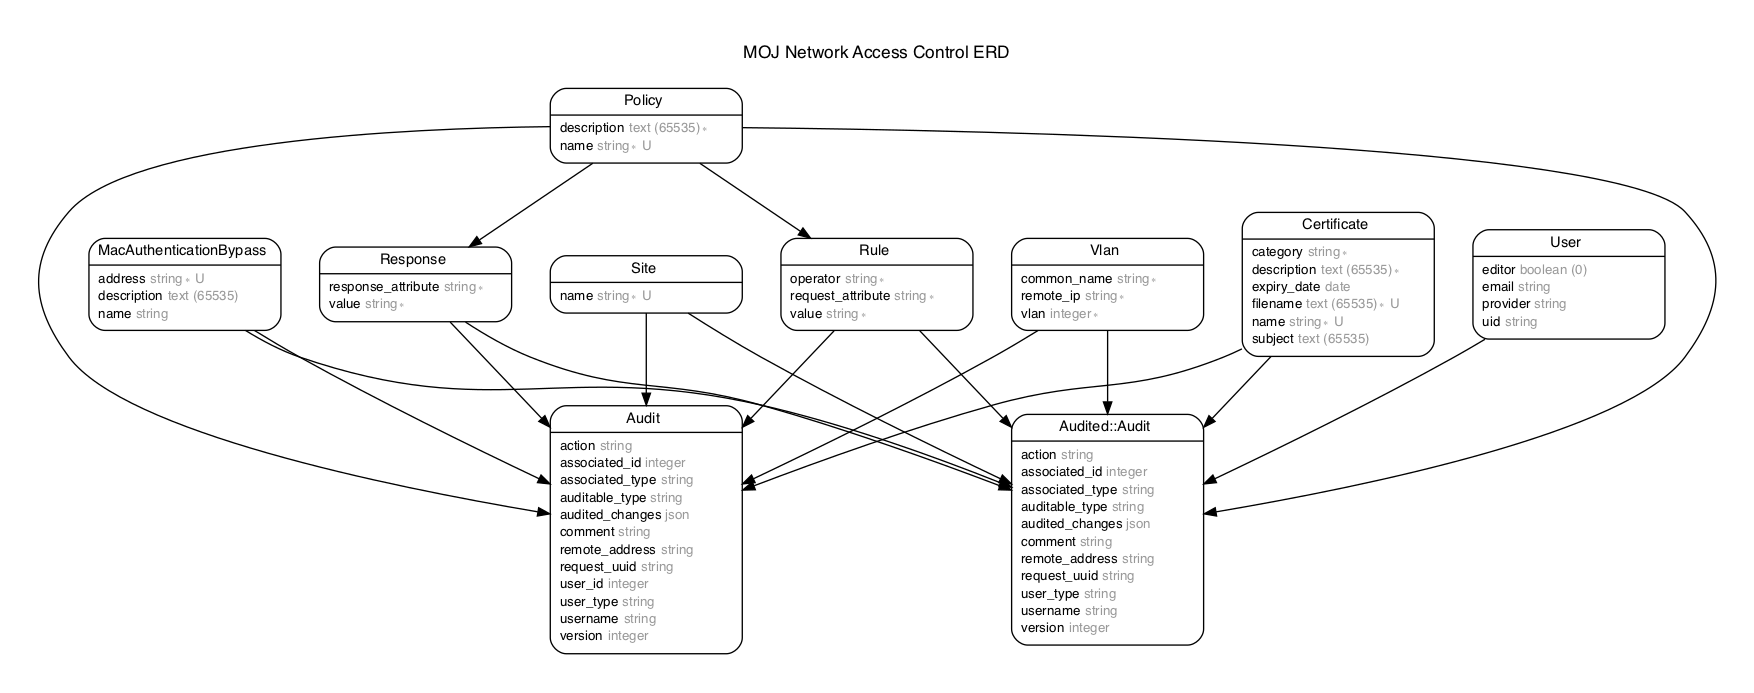
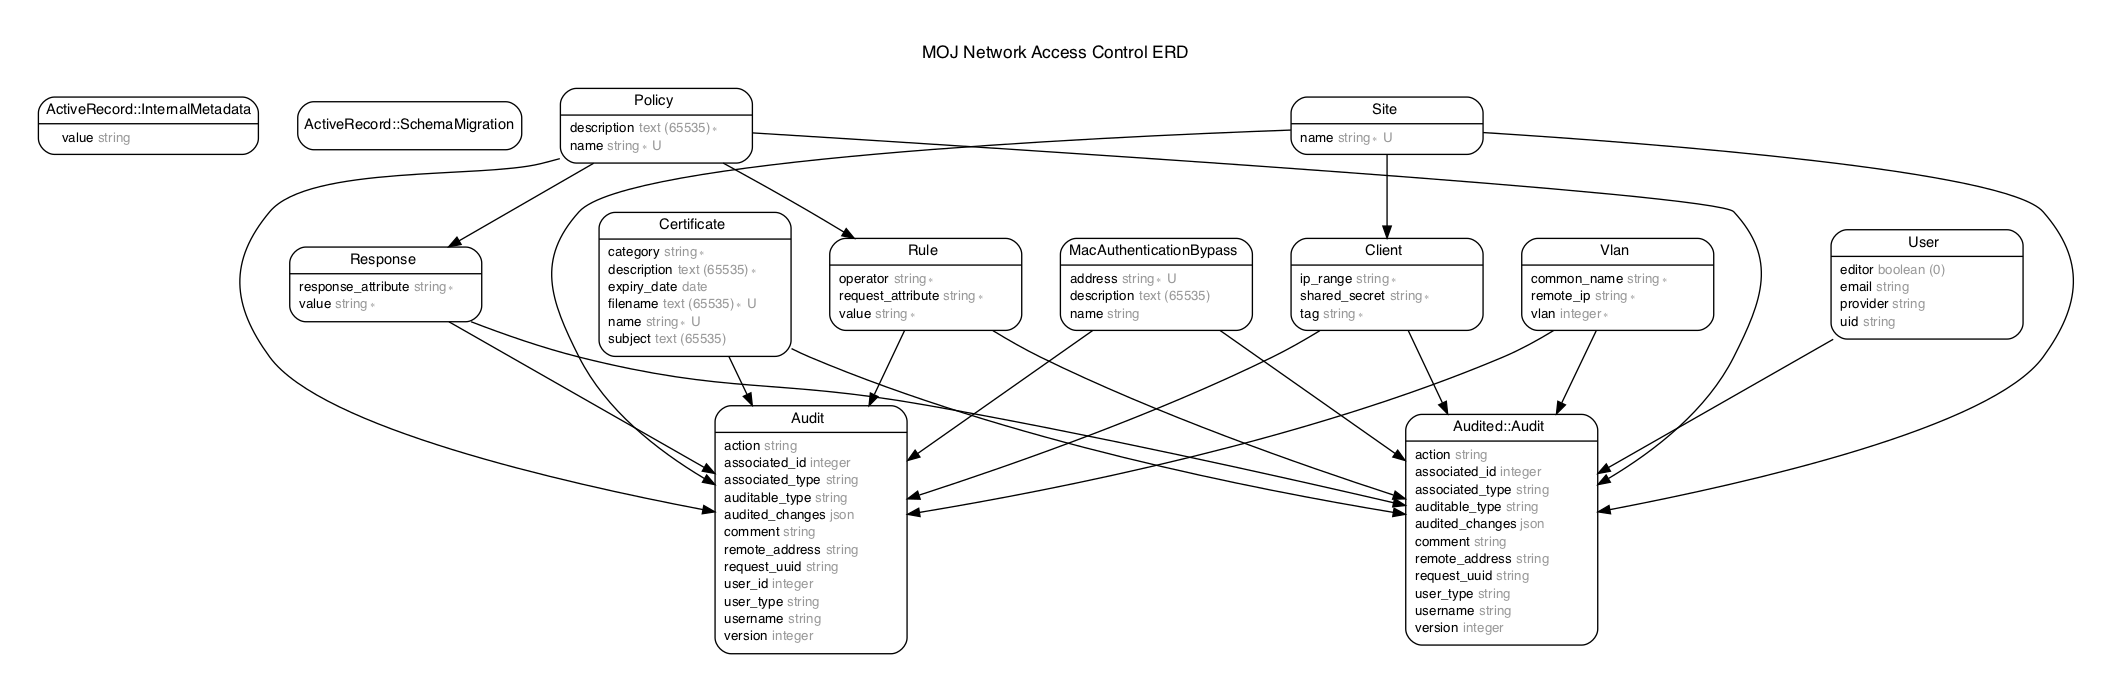
Create Clients table

diff --git a/db/schema.rb b/db/schema.rb
@@ -10,7 +10,7 @@
 #
 # It's strongly recommended that you check this file into your version control system.
 
-ActiveRecord::Schema.define(version: 2021_07_21_113743) do
+ActiveRecord::Schema.define(version: 2021_07_28_132041) do
 
   create_table "audits", charset: "utf8", force: :cascade do |t|
     t.integer "auditable_id"
@@ -43,6 +43,16 @@ ActiveRecord::Schema.define(version: 2021_07_21_113743) do
     t.datetime "updated_at", precision: 6, null: false
     t.text "filename", null: false
     t.string "category", null: false
+  end
+
+  create_table "clients", charset: "utf8", force: :cascade do |t|
+    t.string "tag", null: false
+    t.string "shared_secret", null: false
+    t.string "ip_range", null: false
+    t.bigint "site_id", null: false
+    t.datetime "created_at", precision: 6, null: false
+    t.datetime "updated_at", precision: 6, null: false
+    t.index ["site_id"], name: "index_clients_on_site_id"
   end
 
   create_table "mac_authentication_bypasses", charset: "utf8", force: :cascade do |t|
@@ -102,6 +112,7 @@ ActiveRecord::Schema.define(version: 2021_07_21_113743) do
     t.datetime "updated_at", precision: 6, null: false
   end
 
+  add_foreign_key "clients", "sites"
   add_foreign_key "responses", "policies"
   add_foreign_key "rules", "policies"
 end

diff --git a/db/migrate/20210728132041_create_clients.rb b/db/migrate/20210728132041_create_clients.rb
@@ -1,0 +1,12 @@
+class CreateClients < ActiveRecord::Migration[6.1]
+  def change
+    create_table :clients do |t|
+      t.string :tag, null: false
+      t.string :shared_secret, null: false
+      t.string :ip_range, null: false
+      t.belongs_to :site, null: false, foreign_key: true
+
+      t.timestamps
+    end
+  end
+end
